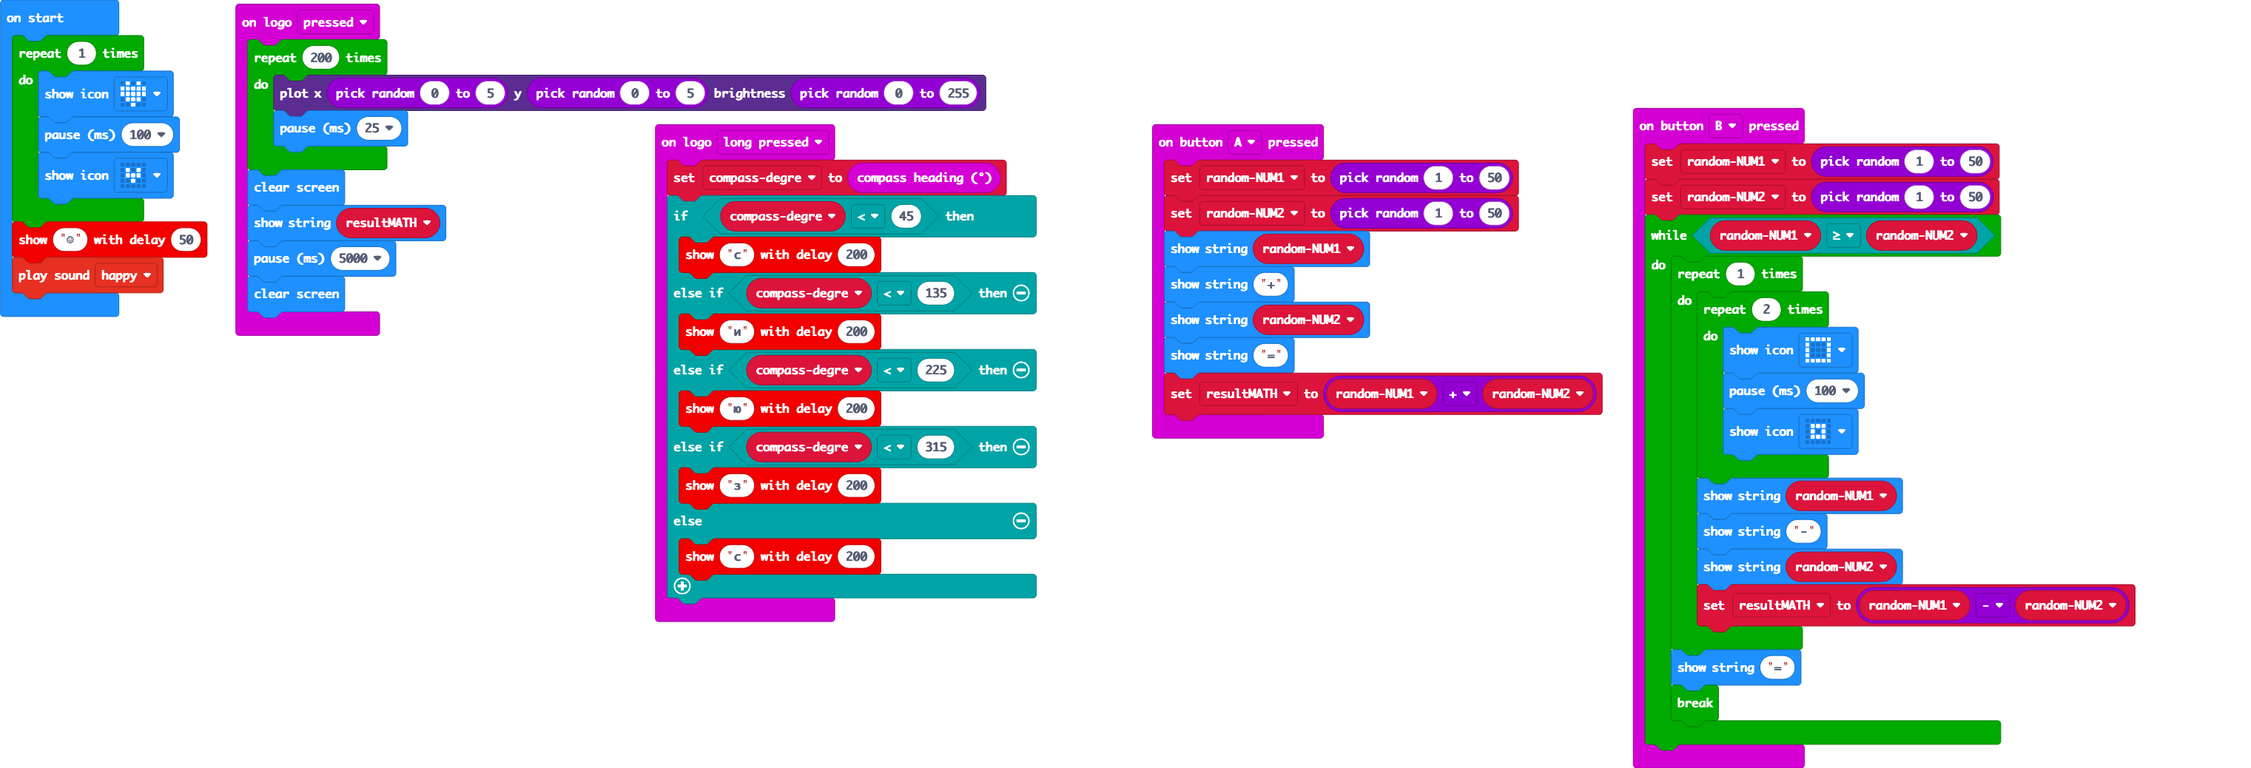
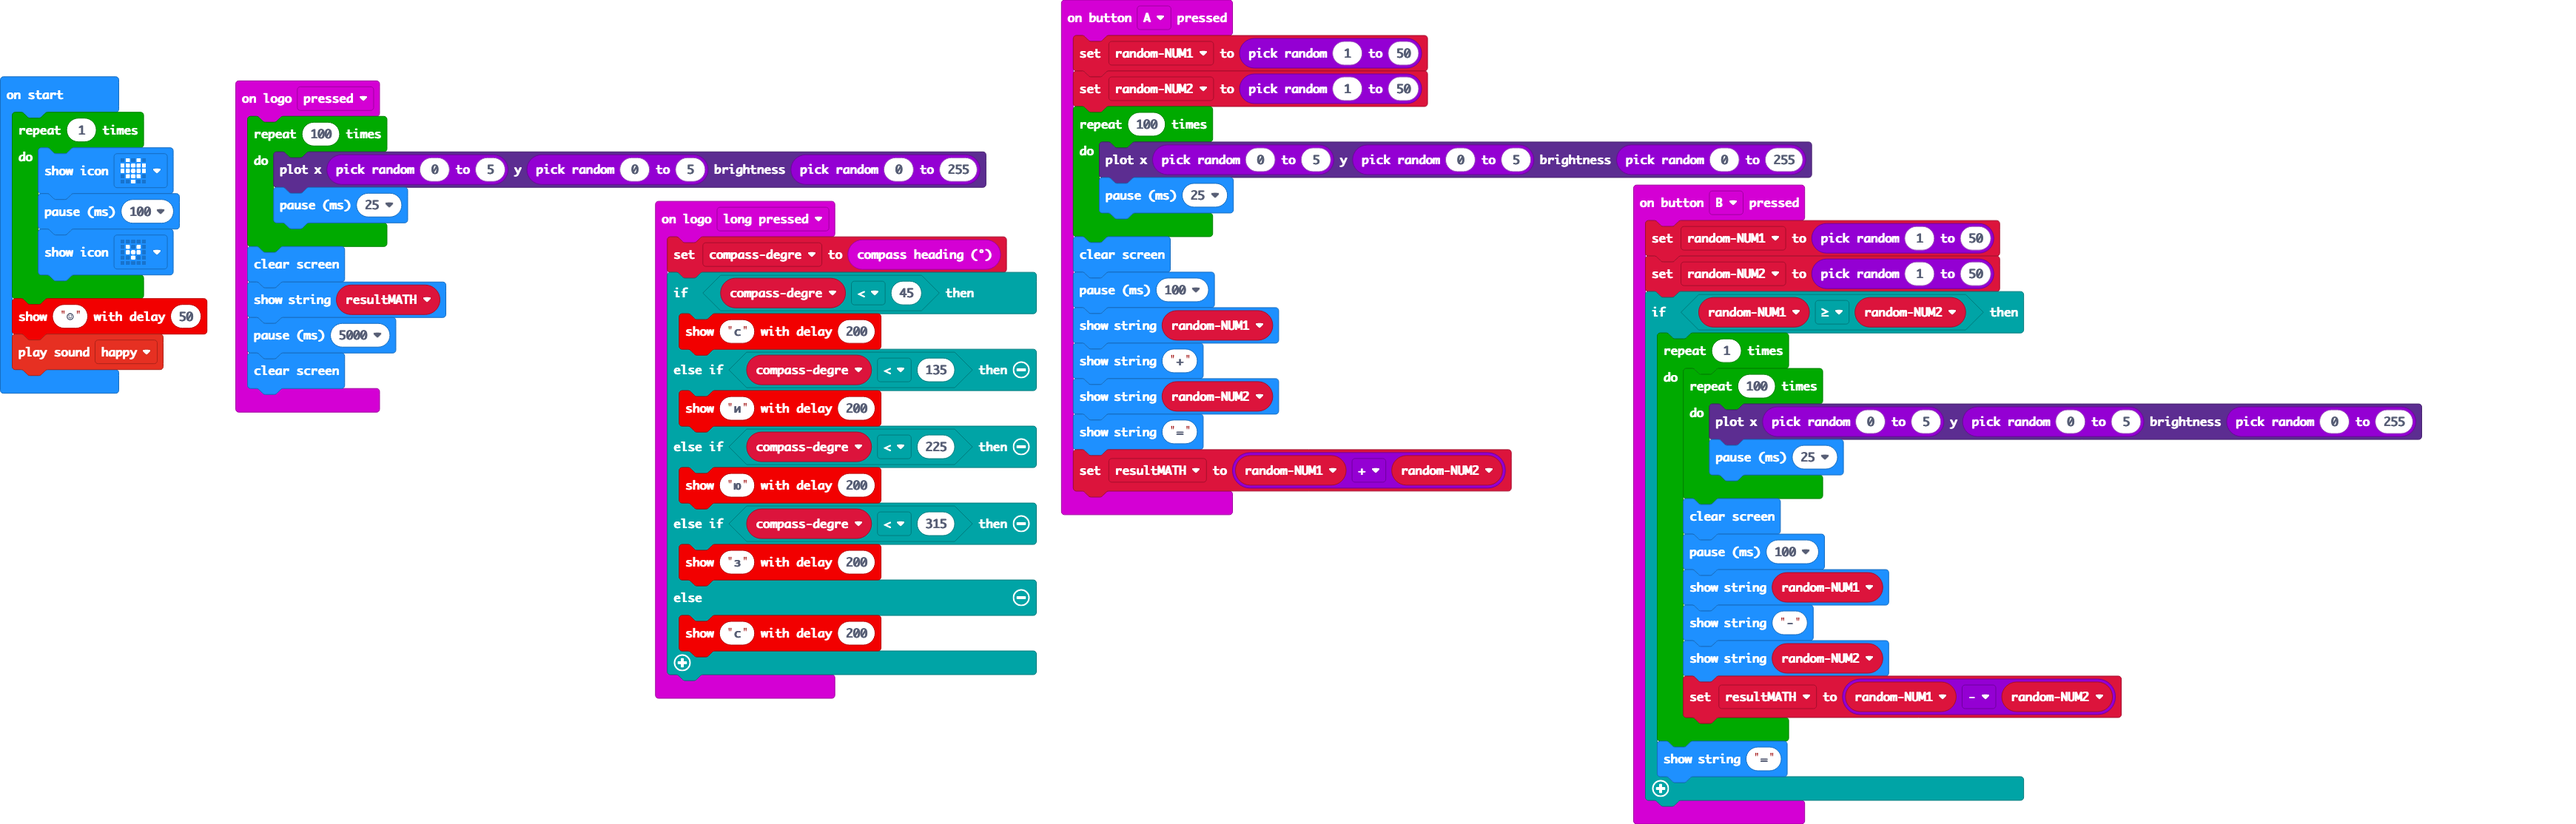
Update main.blocks, main.ts

diff --git a/main.ts b/main.ts
@@ -15,6 +15,12 @@ input.onLogoEvent(TouchButtonEvent.LongPressed, function () {
 input.onButtonPressed(Button.A, function () {
     randomNUM1 = randint(1, 50)
     randomNUM2 = randint(1, 50)
+    for (let index = 0; index < 100; index++) {
+        led.plotBrightness(randint(0, 5), randint(0, 5), randint(0, 255))
+        basic.pause(25)
+    }
+    basic.clearScreen()
+    basic.pause(100)
     basic.showString("" + (randomNUM1))
     basic.showString("+")
     basic.showString("" + (randomNUM2))
@@ -24,24 +30,24 @@ input.onButtonPressed(Button.A, function () {
 input.onButtonPressed(Button.B, function () {
     randomNUM1 = randint(1, 50)
     randomNUM2 = randint(1, 50)
-    while (randomNUM1 >= randomNUM2) {
+    if (randomNUM1 >= randomNUM2) {
         for (let index = 0; index < 1; index++) {
-            for (let index = 0; index < 2; index++) {
-                basic.showIcon(IconNames.Square)
-                basic.pause(100)
-                basic.showIcon(IconNames.SmallSquare)
+            for (let index = 0; index < 100; index++) {
+                led.plotBrightness(randint(0, 5), randint(0, 5), randint(0, 255))
+                basic.pause(25)
             }
+            basic.clearScreen()
+            basic.pause(100)
             basic.showString("" + (randomNUM1))
             basic.showString("-")
             basic.showString("" + (randomNUM2))
             resultMATH = randomNUM1 - randomNUM2
         }
         basic.showString("=")
-        break;
     }
 })
 input.onLogoEvent(TouchButtonEvent.Pressed, function () {
-    for (let index = 0; index < 200; index++) {
+    for (let index = 0; index < 100; index++) {
         led.plotBrightness(randint(0, 5), randint(0, 5), randint(0, 255))
         basic.pause(25)
     }
